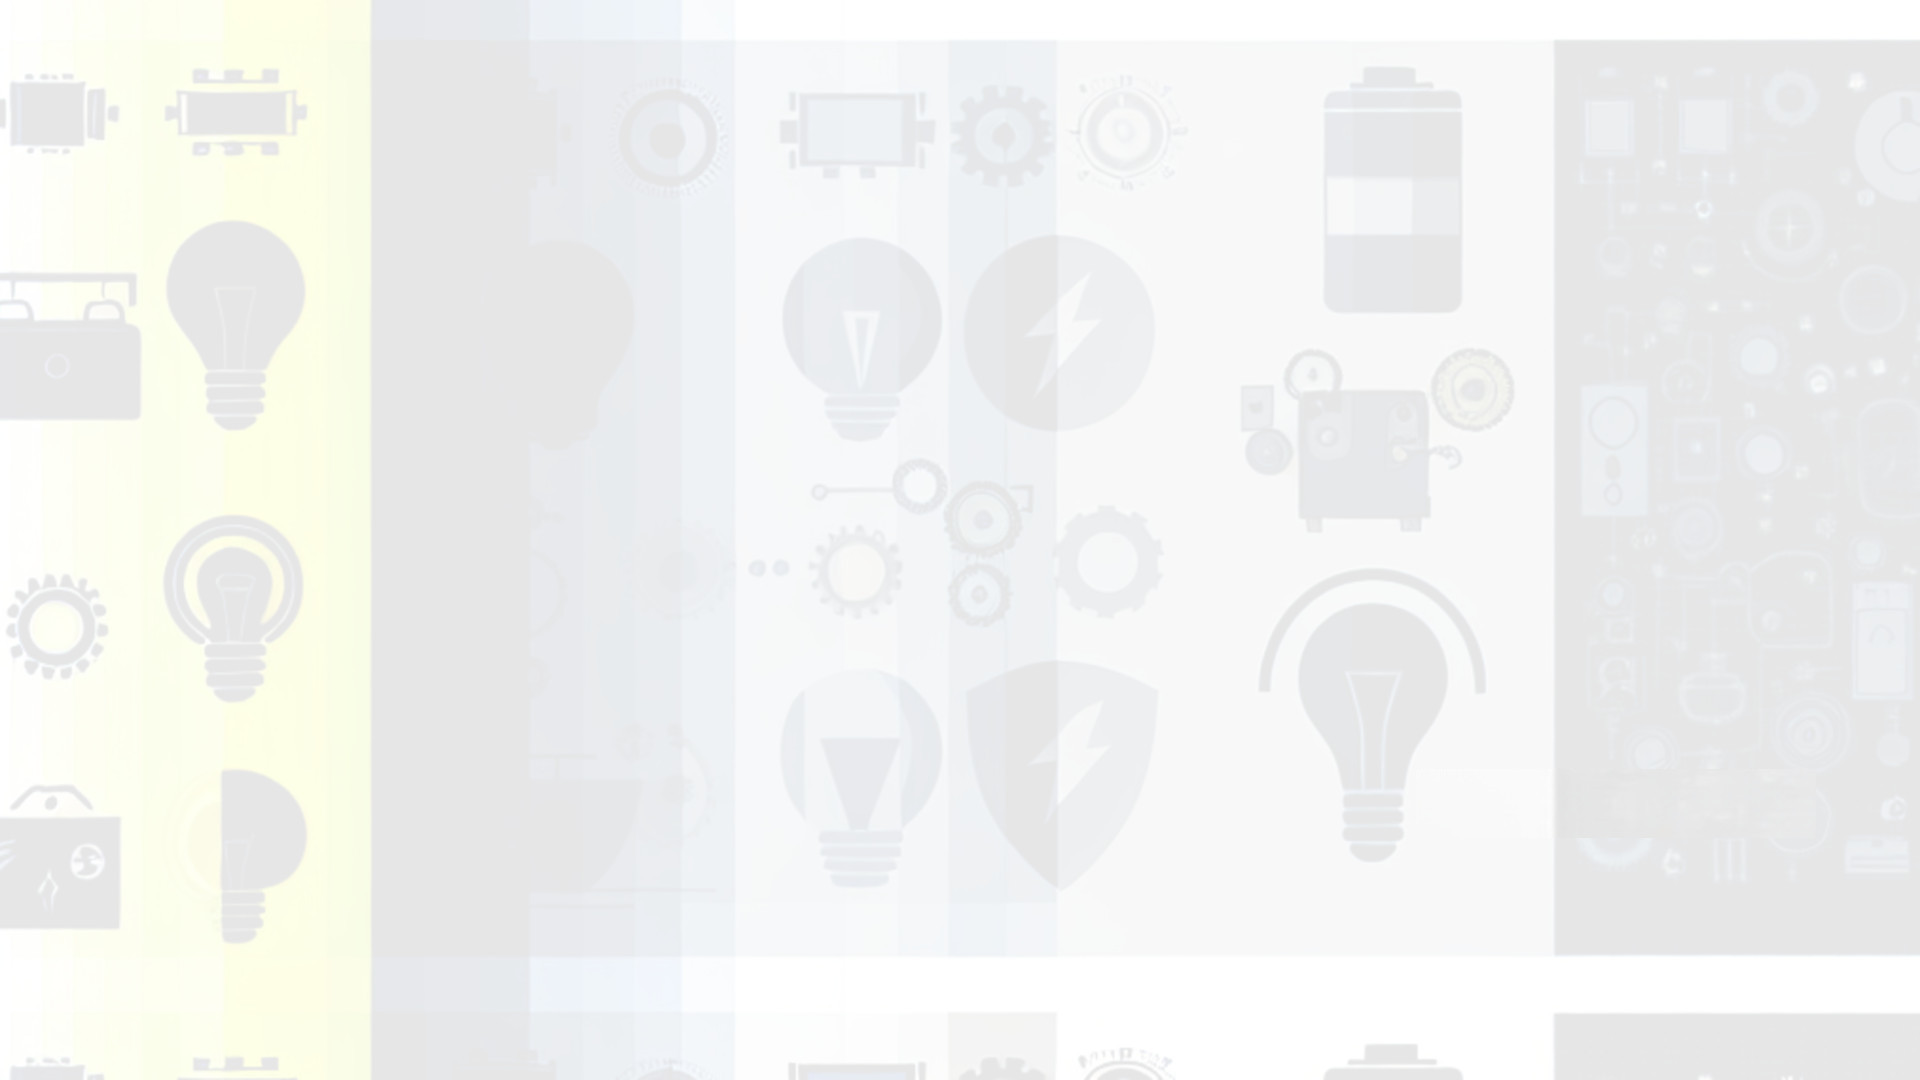
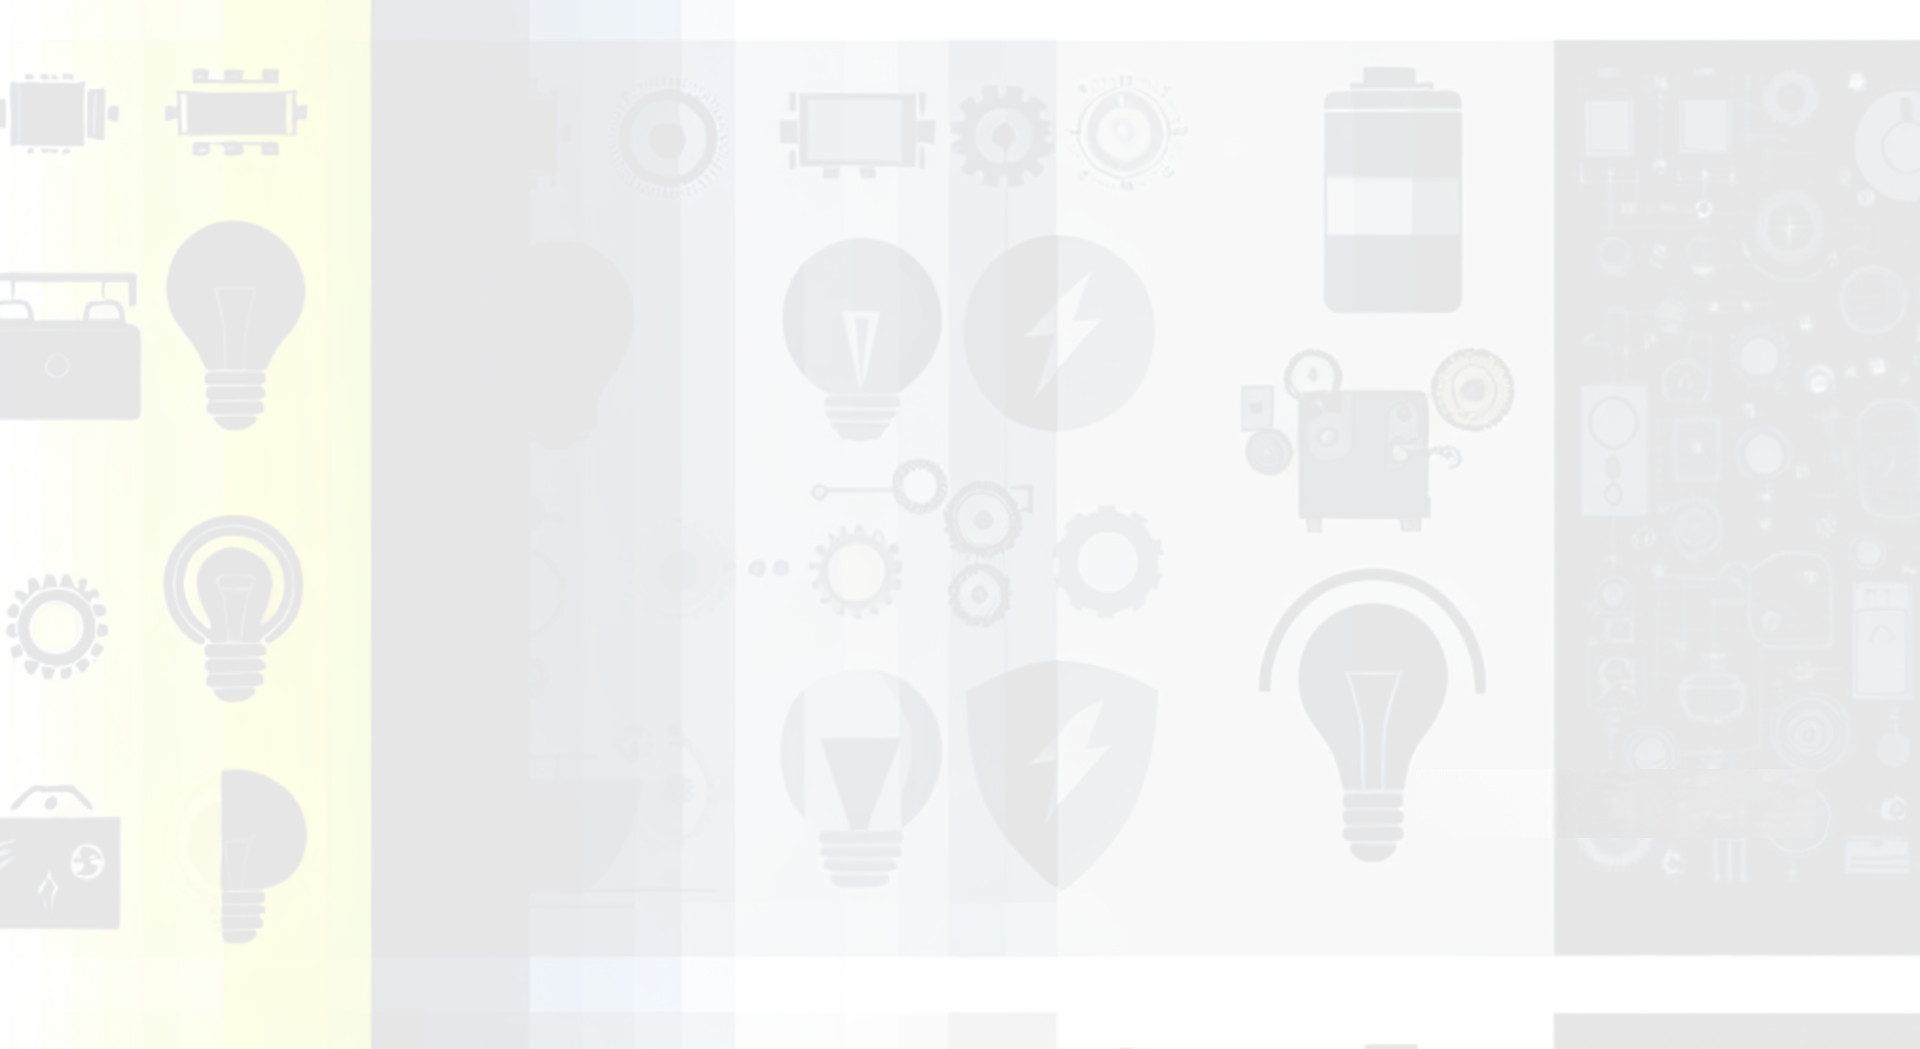
upload time: 03/11/25 13:07:15

diff --git a/vo/index.html b/vo/index.html
@@ -7,7 +7,7 @@
     <link rel="stylesheet" href="styles.css">  
 </head>  
 <body>  
-    <h1>Electric Output Calculators:</h1>  
+
     <div class="container">  
         <div class="calculator1" id="calc1">  
             <h2>Voltage & Amp to Watt</h2>  
@@ -56,7 +56,7 @@
     <!---------------------2nd---------->
      <div class="container2">  
 		 <div class="calculator4" id="calc4"> 
-        <h1>Boost Converter Calculator:</h1>  
+        <h1>Boost Converter:</h1>  
 
         <div class="input-group">  
             <label for="voltageInput">Voltage (V):&nbsp;&nbsp;</label>  

diff --git a/vo/styles.css b/vo/styles.css
@@ -5,7 +5,7 @@ body {
 	background-image: url('back.jpg');
 	background-repeat:no-repeat;
 	/*background-size:cover;*/
-    padding: 20px;  
+    padding: 5px;  
 }  
 
 .container {  
